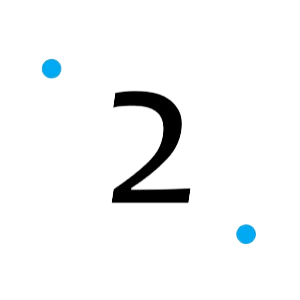
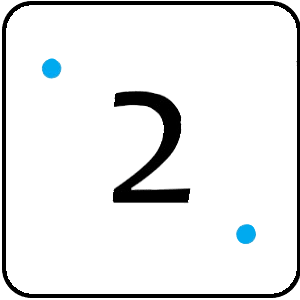
Dado Cambia Imagen El dado indica el resultado.

diff --git a/Aplicación Web/funciones/dado.js b/Aplicación Web/funciones/dado.js
@@ -5,7 +5,9 @@ export default function crear_dado(ayuda, ficha, tablero) {
 	let dado;
 
 	function tirar_dado() {
-		let resultado = Math.floor(Math.random() * 100 % 6 + 1);
+		const resultado = Math.floor(Math.random() * 100 % 6 + 1);
+		const dado = document.getElementsByClassName("dado");
+		dado[0].setAttribute("src", ruta + resultado + tipo);
 		for (let i = 0; i < resultado; i++) {
 			if (tablero.casillas[ficha.posición.actual.y][ficha.posición.actual.x] == 8) {
 				console.log("MECHA MECHAAAAAA");
